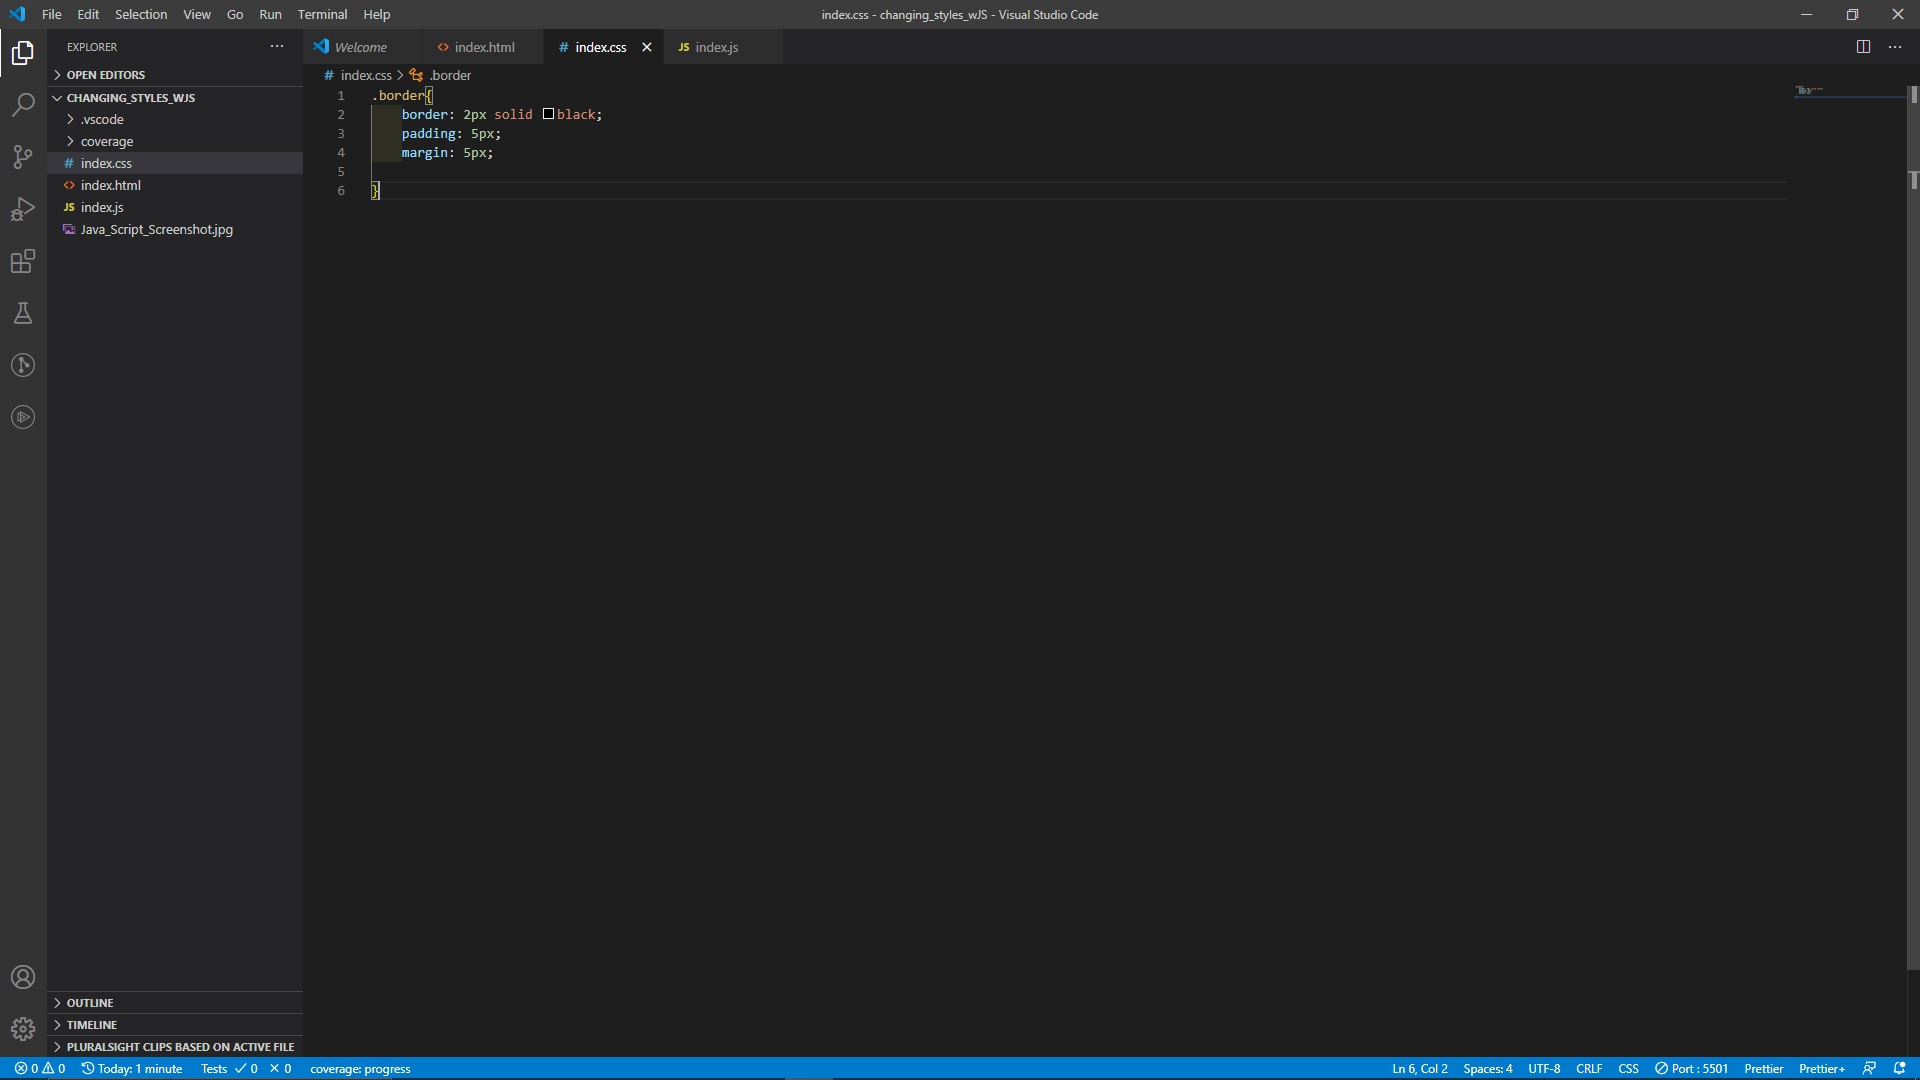
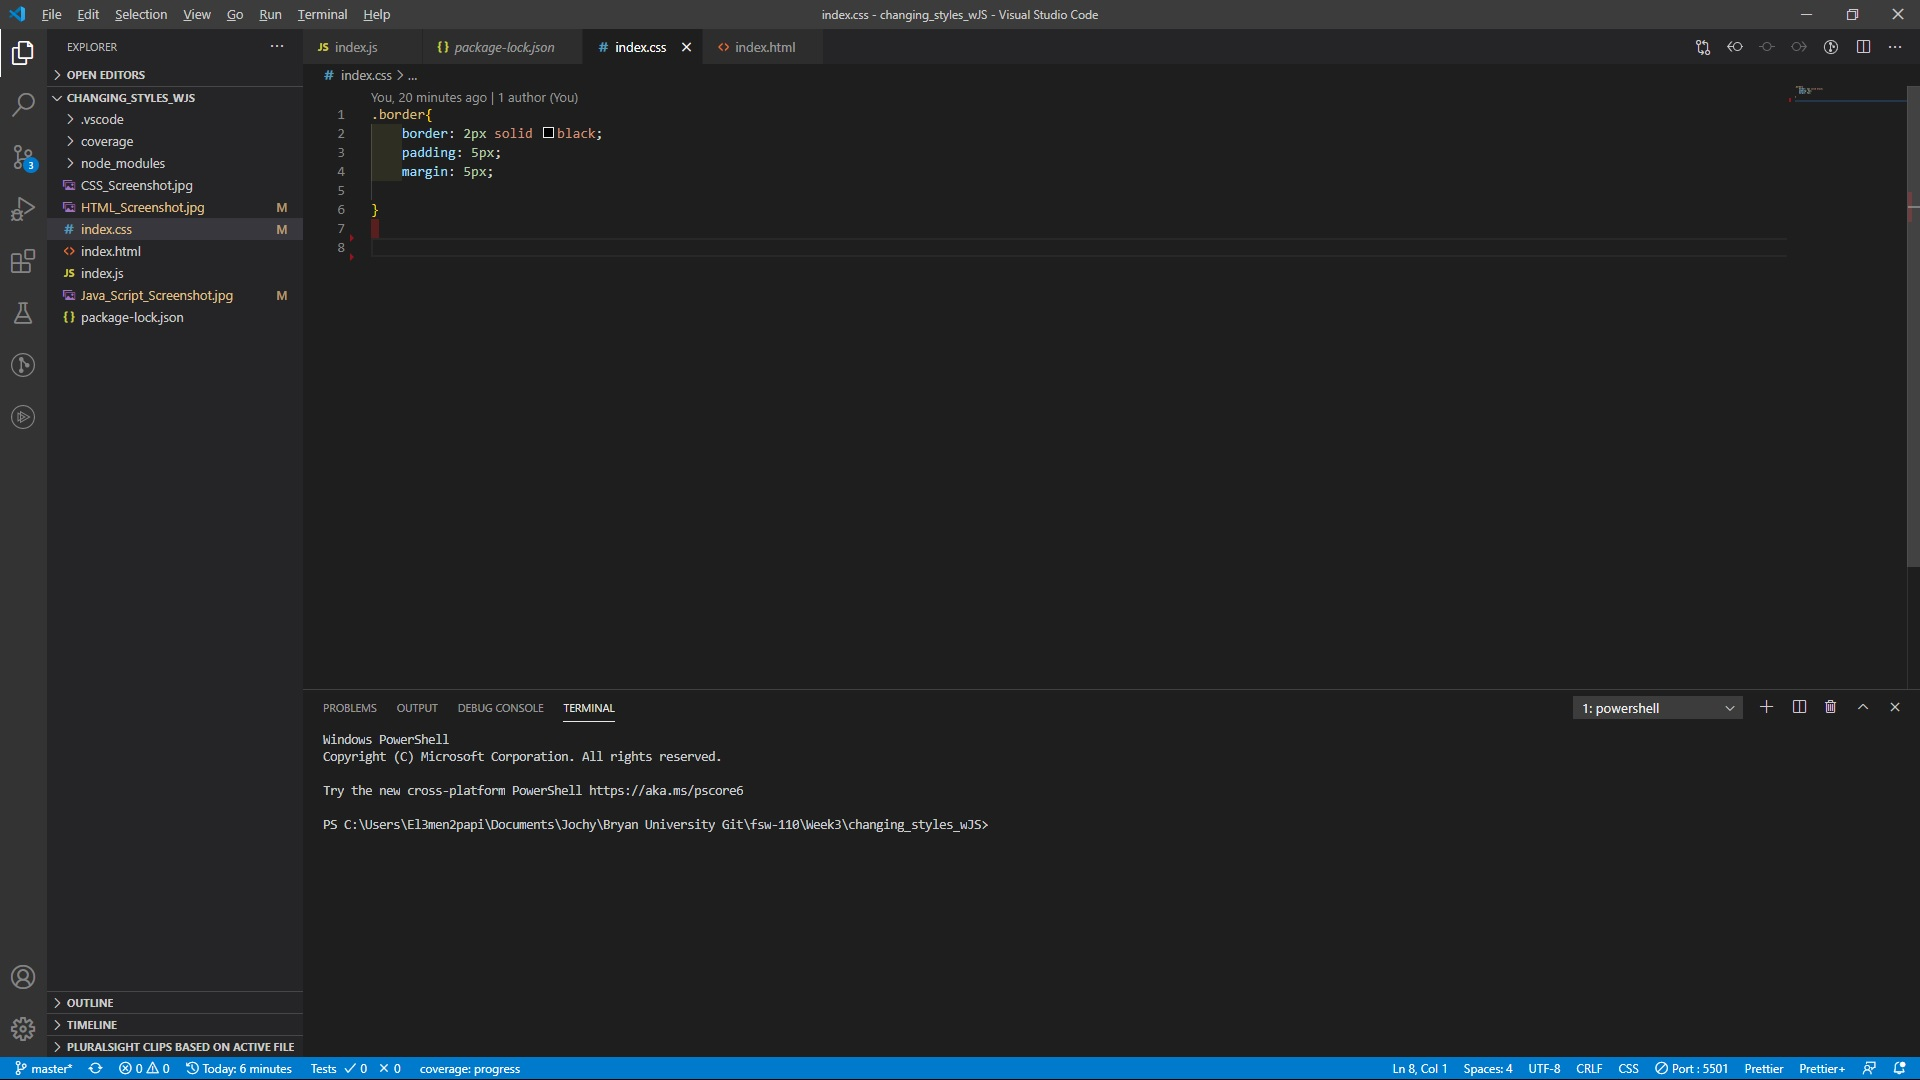
first commit

diff --git a/Week3/changing_styles_wJS/index.css b/Week3/changing_styles_wJS/index.css
@@ -5,9 +5,3 @@
 
 }
  
- h2{
-    border: 2px solid black;
-    padding: 5px;
-    margin: 5px;
-
-}  
